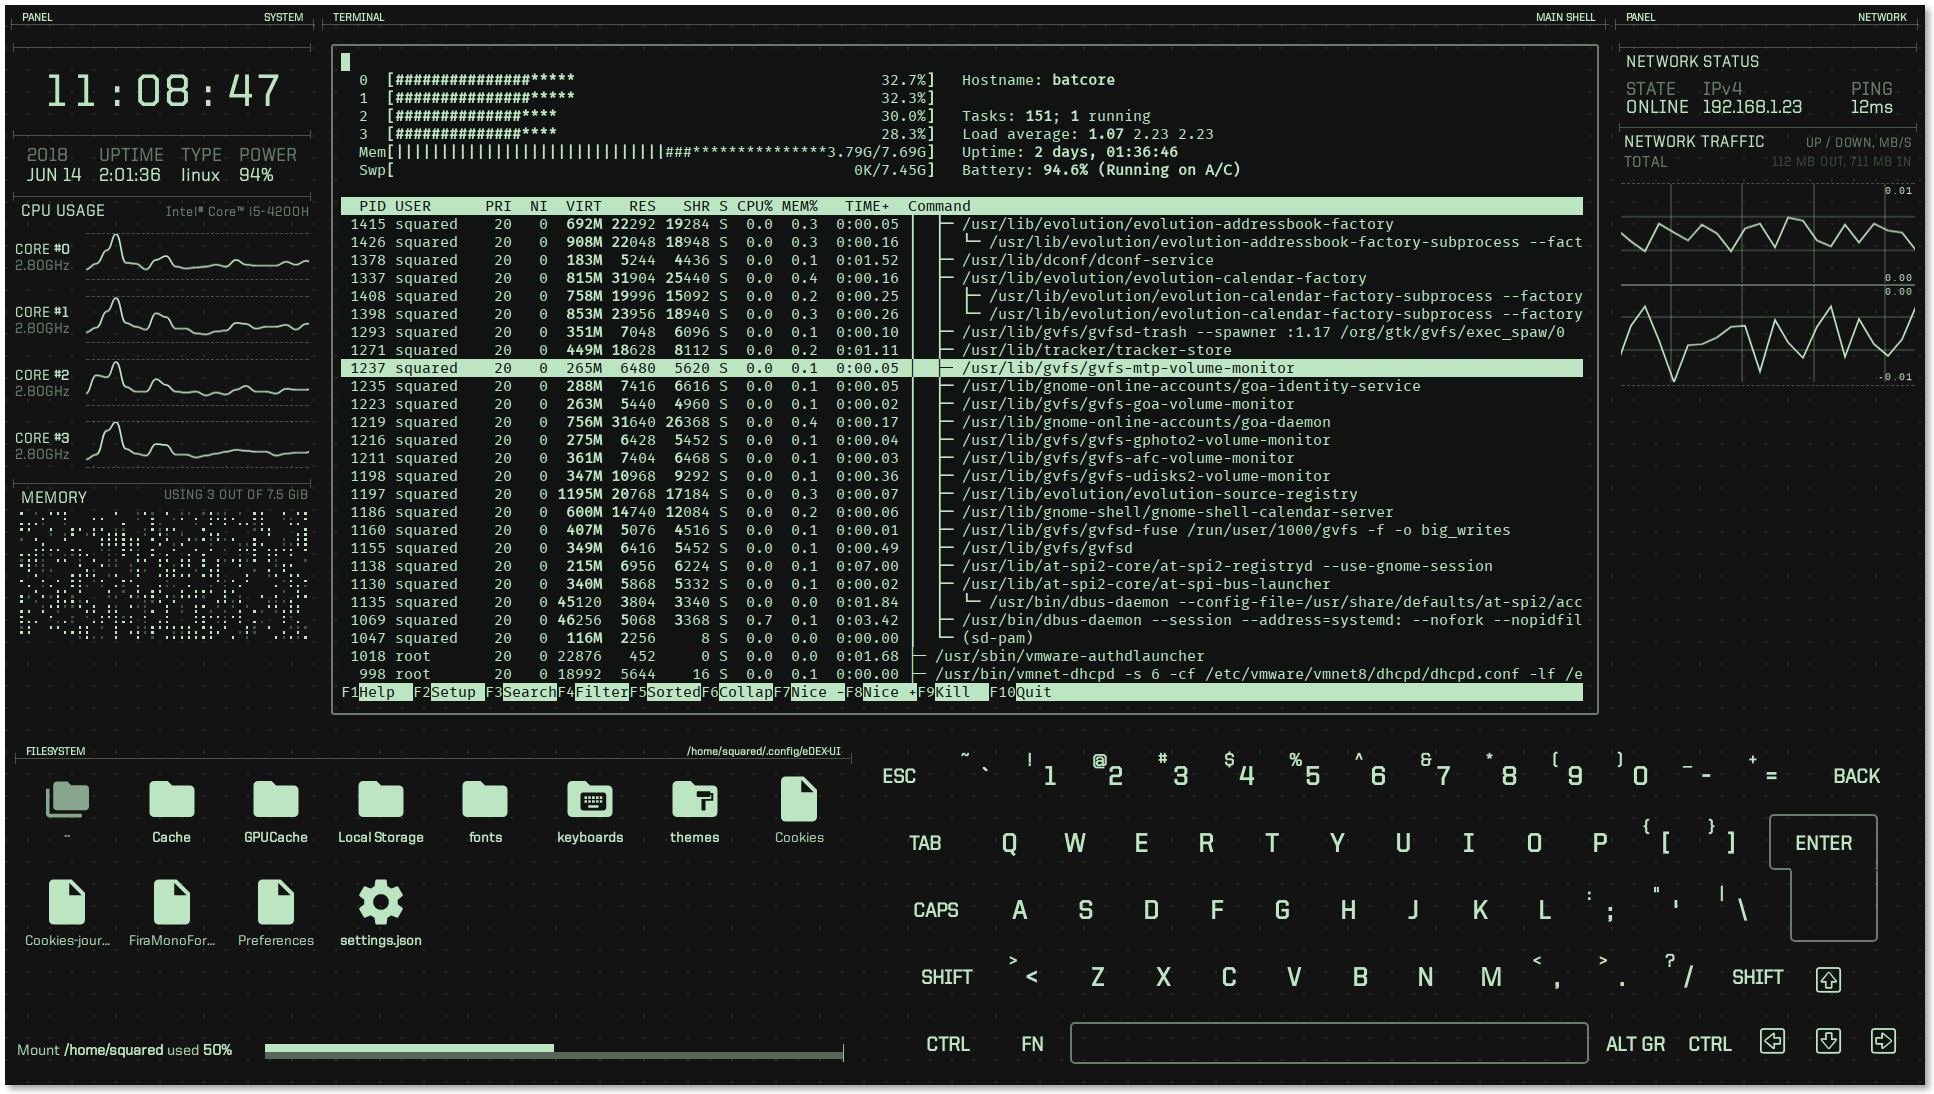
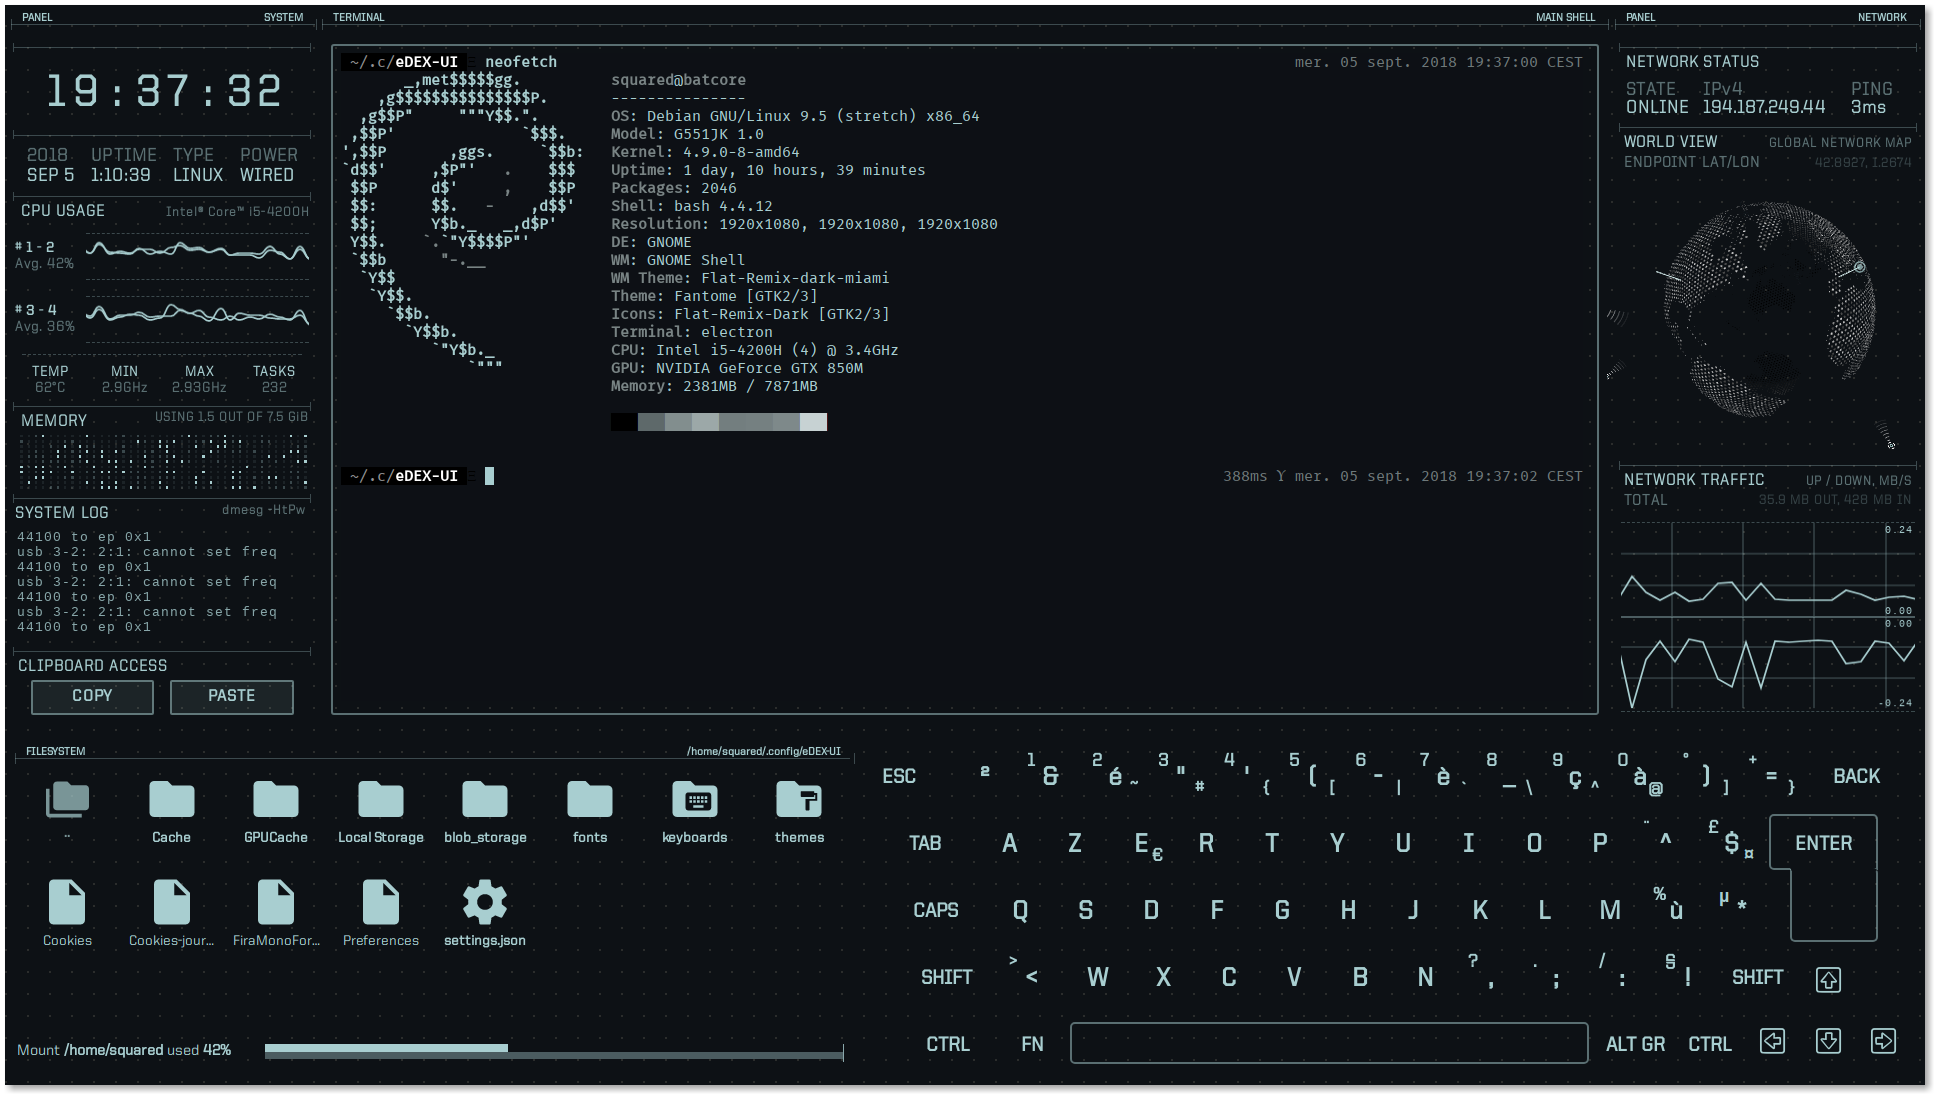
:speech_balloon: Update readme screenshot

diff --git a/README.md b/README.md
@@ -16,7 +16,7 @@ I had no ideas for a name so i took DEX-UI and added a "e" for Electron. Deal wi
 ## Screenshots
 ![Pre-release screenshot](https://github.com/GitSquared/edex-ui/raw/master/media/screenshot_default.png)
 
-_(htop running on eDEX-UI v0.9.0 with the default keyboard and theme)_
+_(neofetch on eDEX-UI v1.0.0-rc1 with the french keyboard and default "tron" theme)_
 
 ## Q&A
 #### What OS can this thing run on?
